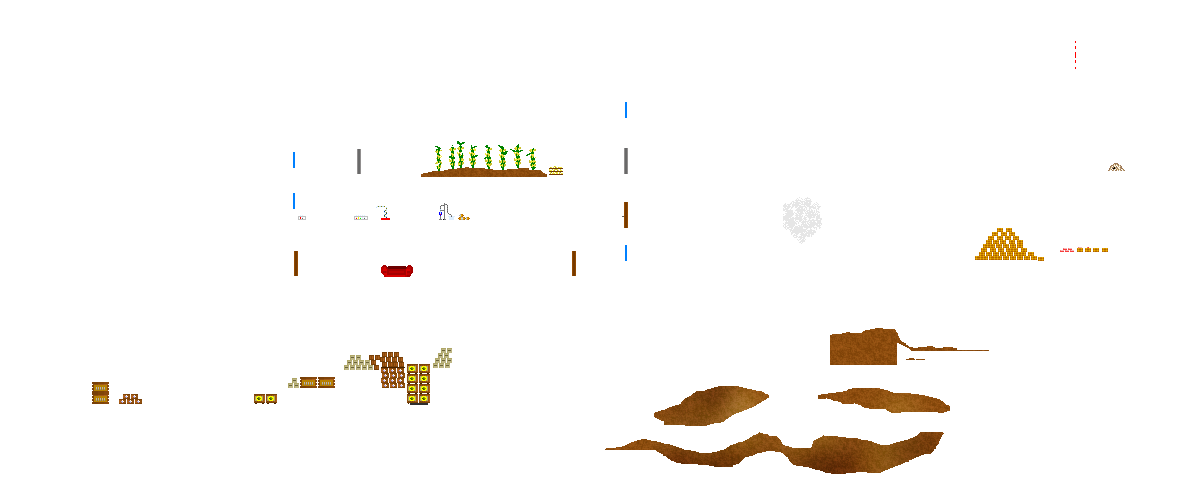
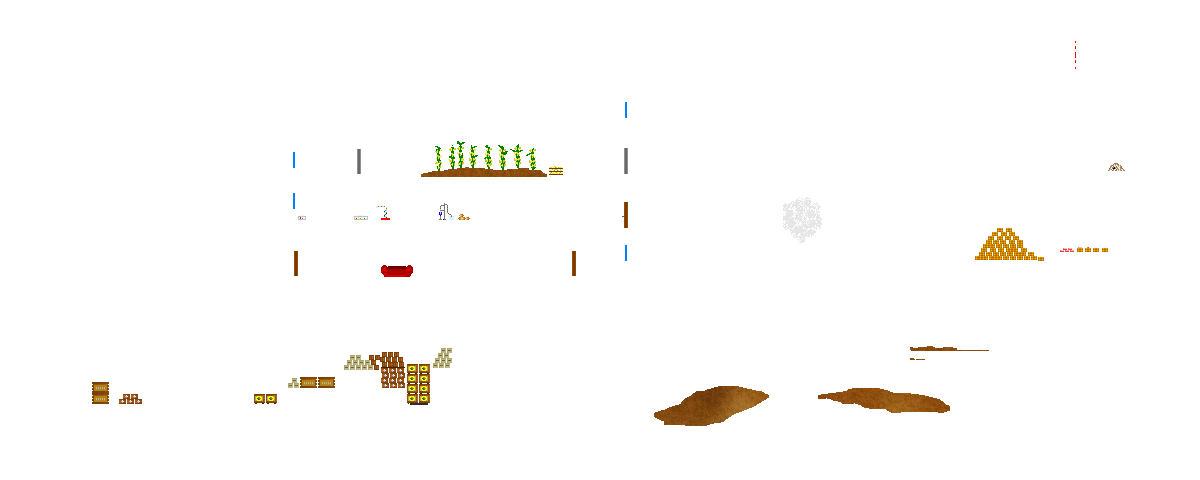
olr-level-liero-factory-reloaded: the press heap and the mine's floor seams are loose spoil
Claude-Session: https://claude.ai/code/session_016Y12gmYEH1x989AU3KpmTT

Changed region(s): [[0.4933, 0.9062, 0.8017, 1.0], [0.6783, 0.6875, 0.7708, 0.7812]]

diff --git a/tools/levels/factory_works.py b/tools/levels/factory_works.py
@@ -15,7 +15,8 @@
 #   the drive's casing, the dirt balls painted on the incline: the stamp
 #   is the Console's piece), the lift's shaft at the hall's far right down
 #   into the mine's big chamber, the mine cart's rails, the truck's hazard
-#   lights and lit cab, and the line's end crate made rock. (The emergency
+#   lights and lit cab, the line's end crate made rock, and the press heap
+#   and the mine's floor seam loose spoil (the loose dirt design). (The emergency
 #   lamps, red bulbs lit in a blackout, are gone: the user's playtest,
 #   2026-11-05, their bulbs read as red dots hanging in the air.)
 # - `place(run, out)` places the copies new to the level (the lift, the
@@ -130,6 +131,15 @@ CAB_BOX = (50, 378, 23, 16)
 CAB_GROUP = ("cab", "ffd8a0", 140, 22, None)
 CAB_GLOW = 60
 
+# The loose dirt design: the press heap's box and the mine's (its floor
+# seam rests on rock, the seams above the tunnel would fall into it); a
+# region of either is spoil when the probe moves under SPOIL_MOVED % of it
+# in SPOIL_TICKS ticks.
+SPOIL = [("Press heap", "spoil-heap.png", (820, 320, 90, 50)),
+         ("Mine spoil", "spoil-mine.png", (590, 370, 380, 110))]
+SPOIL_REPOSE, SPOIL_TICKS, SPOIL_MOVED = 35, 300, 2.0
+DIRT = (139, 90, 43)  # `material.png`'s dirt
+
 # The Strip light's broken tube: its unlit grey, the middle shattered.
 STRIP_OFF = (150, 150, 156)
 STRIP_GAP = (11, 7)  # the missing glass's first column and width
@@ -195,7 +205,11 @@ def inside(box, x, y):
 
 
 def layer(name):
-    return decode(os.path.join(AFTER_DARK, "editor/layers", name + ".png"))[2]
+    return layer_of(AFTER_DARK, name)
+
+
+def layer_of(pack, name):
+    return decode(os.path.join(pack, "editor/layers", name + ".png"))[2]
 
 
 def bbox(pixels):
@@ -511,7 +525,50 @@ def ground(run, out):
        "--tile", os.path.join(SCRATCH, "crate-tile.png"))
     el("set", out, box, "--surface", "wood")
     new.append(box)
+    # The loose dirt design: the press heap and the mine's floor seam are
+    # spoil, each on a dirt layer of its own.
+    run("level", "loose", "add", out, "--id", "spoil", "--name", "Mine spoil", "--repose", str(SPOIL_REPOSE))
+    for name, mask, box in SPOIL:
+        pixels = resting(run, out, box)
+        sp = added(el("extract", out, "dirt", "--mask", white(mask, pixels, SCRATCH), "--name", name))
+        el("set", out, sp, "--loose", "spoil")
+        new.append(sp)
     return new
+
+
+def resting(run, out, box):
+    """The dirt of `box` that rests: each 4-connected dirt region of the box
+    (`level loose probe`'s, matched by its bounds and size) of which under
+    `SPOIL_MOVED` % moved in `SPOIL_TICKS`, all on the ground's `dirt`."""
+    bx, by, bw, bh = box
+    probed = run("level", "loose", "probe", out, "--box", ",".join(map(str, box)), "--ticks", str(SPOIL_TICKS))
+    moved = {}
+    for line in probed.splitlines():
+        rect, n, share = line.split()
+        moved[(tuple(map(int, rect.split(","))), int(n))] = float(share.rstrip("%"))
+    _, _, mat = decode(os.path.join(out, "material.png"))
+    dirt = layer_of(out, "dirt")
+    is_dirt = lambda x, y: bx <= x < bx + bw and by <= y < by + bh and mat[y][x][:3] == DIRT
+    seen, rest = set(), set()
+    for y in range(by, by + bh):
+        for x in range(bx, bx + bw):
+            if (x, y) in seen or not is_dirt(x, y):
+                continue
+            region, stack = set(), [(x, y)]
+            seen.add((x, y))
+            while stack:
+                p = stack.pop()
+                region.add(p)
+                for q in ((p[0] - 1, p[1]), (p[0] + 1, p[1]), (p[0], p[1] - 1), (p[0], p[1] + 1)):
+                    if q not in seen and is_dirt(*q):
+                        seen.add(q)
+                        stack.append(q)
+            share = moved[(bbox(region), len(region))]
+            if share < SPOIL_MOVED:
+                assert all(dirt[py][px][3] for px, py in region), (box, bbox(region))
+                rest |= region
+    assert rest, box
+    return rest
 
 
 def place(run, out, assets):

diff --git a/crates/olr-cli/tests/factory_works.rs b/crates/olr-cli/tests/factory_works.rs
@@ -371,3 +371,68 @@ fn a_blast_near_a_strip_flickers_it() {
     until(&mut w, 200, |w| state(w, "strip-6") == "Steady");
     assert_eq!(live_copy(&w, "strip-6").value("hp"), Some(20), "unhurt");
 }
+
+/// The spoil's boxes (`factory_works.py`): the press heap's and the mine's.
+const HEAP: (u32, u32, u32, u32) = (820, 320, 90, 50);
+const MINE: (u32, u32, u32, u32) = (590, 370, 380, 110);
+
+fn within((bx, by, bw, bh): (u32, u32, u32, u32), x: u32, y: u32) -> bool {
+    x >= bx && x < bx + bw && y >= by && y < by + bh
+}
+
+/// The press heap and the mine's floor seam are loose spoil, and no dirt
+/// outside their boxes is.
+#[test]
+fn the_factory_has_spoil() {
+    let content = Content::open_bundled(&packs_dir()).unwrap();
+    let level = content.load_level(FACTORY).unwrap();
+    let loose = level.loose.as_ref().expect("the factory has loose dirt");
+    let w = level.material.width();
+    let (mut heap, mut mine) = (0, 0);
+    for (i, &k) in loose.kinds.iter().enumerate() {
+        let (x, y) = (i as u32 % w, i as u32 / w);
+        if k == 0 {
+            continue;
+        }
+        assert_eq!(k, 1, "({x}, {y}): spoil, the only loose material");
+        if within(HEAP, x, y) {
+            heap += 1;
+        } else if within(MINE, x, y) {
+            mine += 1;
+        } else {
+            panic!("({x}, {y}) is loose, outside the heap and the mine");
+        }
+    }
+    assert!(heap > 1000 && mine > 1000, "heap {heap}, mine {mine} loose pixels");
+}
+
+/// The spoil rests where the level lays it: in a match of no worms, fewer
+/// than 2 % of its grains move in 300 ticks.
+#[test]
+fn the_spoil_stays_put_in_an_empty_match() {
+    let content = Content::open_bundled(&packs_dir()).unwrap();
+    let level = content.load_level(FACTORY).unwrap();
+    let kinds = &level.loose.as_ref().expect("the factory has loose dirt").kinds;
+    let setup = olr_content::SandboxSetup {
+        mod_id: CLASSIC.into(),
+        level_id: FACTORY.into(),
+        seed: 1,
+        settings: olr_sim::SimSettings::lx56(),
+        worms: Vec::new(),
+        restrictions: olr_content::DEFAULT_PRESET.into(),
+    };
+    let mut w = content.new_world(&setup).unwrap();
+    // `grain[cell]`: the starting cell of the grain there now.
+    let mut grain: Vec<u32> = (0..kinds.len() as u32).collect();
+    let mut moved = vec![false; kinds.len()];
+    run(&mut w, 300, |w, _| {
+        for &(from, to) in w.loose_moves() {
+            let g = grain[from as usize];
+            grain[to as usize] = g;
+            moved[g as usize] = true;
+        }
+    });
+    let loose = kinds.iter().filter(|&&k| k != 0).count();
+    let gone = moved.iter().filter(|&&m| m).count();
+    assert!(gone * 50 < loose, "{gone} of {loose} grains moved");
+}

diff --git a/crates/olr-cli/tests/reloaded.rs b/crates/olr-cli/tests/reloaded.rs
@@ -643,6 +643,13 @@ fn the_new_factory_bakes_as_after_dark() {
     let same = std::fs::read(ours.join("distant/0.png")).unwrap()
         == std::fs::read(theirs.join("distant/0.png")).unwrap();
     assert!(same, "distant/0.png differs from After Dark's");
+    // The loose dirt design: the press heap and the mine's floor seam are
+    // spoil (`factory_works.py`), loose but drawn and solid as before.
+    let loose = |dir: &Path| {
+        String::from_utf8(cli(&["level", "loose", "list", dir.to_str().unwrap()]).stdout).unwrap()
+    };
+    assert_eq!(loose(&ours), "1: spoil \"Mine spoil\" repose 35° gravity 200 top-speed 50 slide-speed 25\n");
+    assert_eq!(loose(&theirs), "");
     for file in ["material.png", "front.png", "back.png"] {
         let decode =
             |dir: &Path| olr_pack::image_io::decode_rgba(&std::fs::read(dir.join(file)).unwrap()).unwrap();

diff --git a/tools/levels/CLAUDE.md b/tools/levels/CLAUDE.md
@@ -91,7 +91,13 @@ byte for byte, and running one again changes nothing.
   cart's rails on the left tunnel's floor, row 473; the doorway's
   threshold plate behind the forklift, `THRESHOLD`, its art moved onto
   the backdrop so the wheels roll over it; the truck's hazard lights, a Rock layer on
-  the truck's own rock, and lit cab); `place(run, out, assets)` places the Lift, the Mine cart and the
+  the truck's own rock, and lit cab; the loose dirt design: the loose
+  material `spoil` ("Mine spoil", repose 35) and, by `resting`, the dirt
+  regions of `SPOIL`'s boxes, the press heap's and the mine's, that
+  `level loose probe` moves under 2 % in 300 ticks (the heap and the
+  mine's floor seam; the seams over the tunnel would fall), each box's
+  extracted from `dirt` onto a layer of its own set `--loose spoil`);
+  `place(run, out, assets)` places the Lift, the Mine cart and the
   Forklift. `factory_assets.py` makes the Dirt-ball line, Lift, Mine cart,
   Forklift, Generator, Siren, Lab flask and Window pane by their blocks
   (`NEW_ASSETS`); its `PIECES` give the line the Console's place (placed

diff --git a/crates/olr-cli/CLAUDE.md b/crates/olr-cli/CLAUDE.md
@@ -1305,8 +1305,13 @@ and cart stopped; repaired after 3000 ticks, all at rest again),
 `a_big_blast_sounds_the_alarm` (the siren in Alarm with turning beams,
 the groups and strips red, calm after 1000 ticks, not again for 2000),
 `a_broken_strip_is_mended`, `a_pane_shatters`,
-`the_lift_cart_and_forklift_work` (their states and travels) and
-`a_blast_near_a_strip_flickers_it`.
+`the_lift_cart_and_forklift_work` (their states and travels),
+`a_blast_near_a_strip_flickers_it`, and the loose dirt design's
+`the_factory_has_spoil` (`loose.png` all `spoil` and only inside the
+press heap's and the mine's boxes, over 1000 pixels each;
+`the_new_factory_bakes_as_after_dark` checks the list, `level loose
+list`) and `the_spoil_stays_put_in_an_empty_match` (no worms, 300 ticks:
+under 2 % of the grains moved).
 `bots_play_the_live_factory` (both
 mods, 3000 ticks, invariants every tick) and
 `the_live_factory_stays_in_sync` (`netsim`: 3 clients, the `bad`
